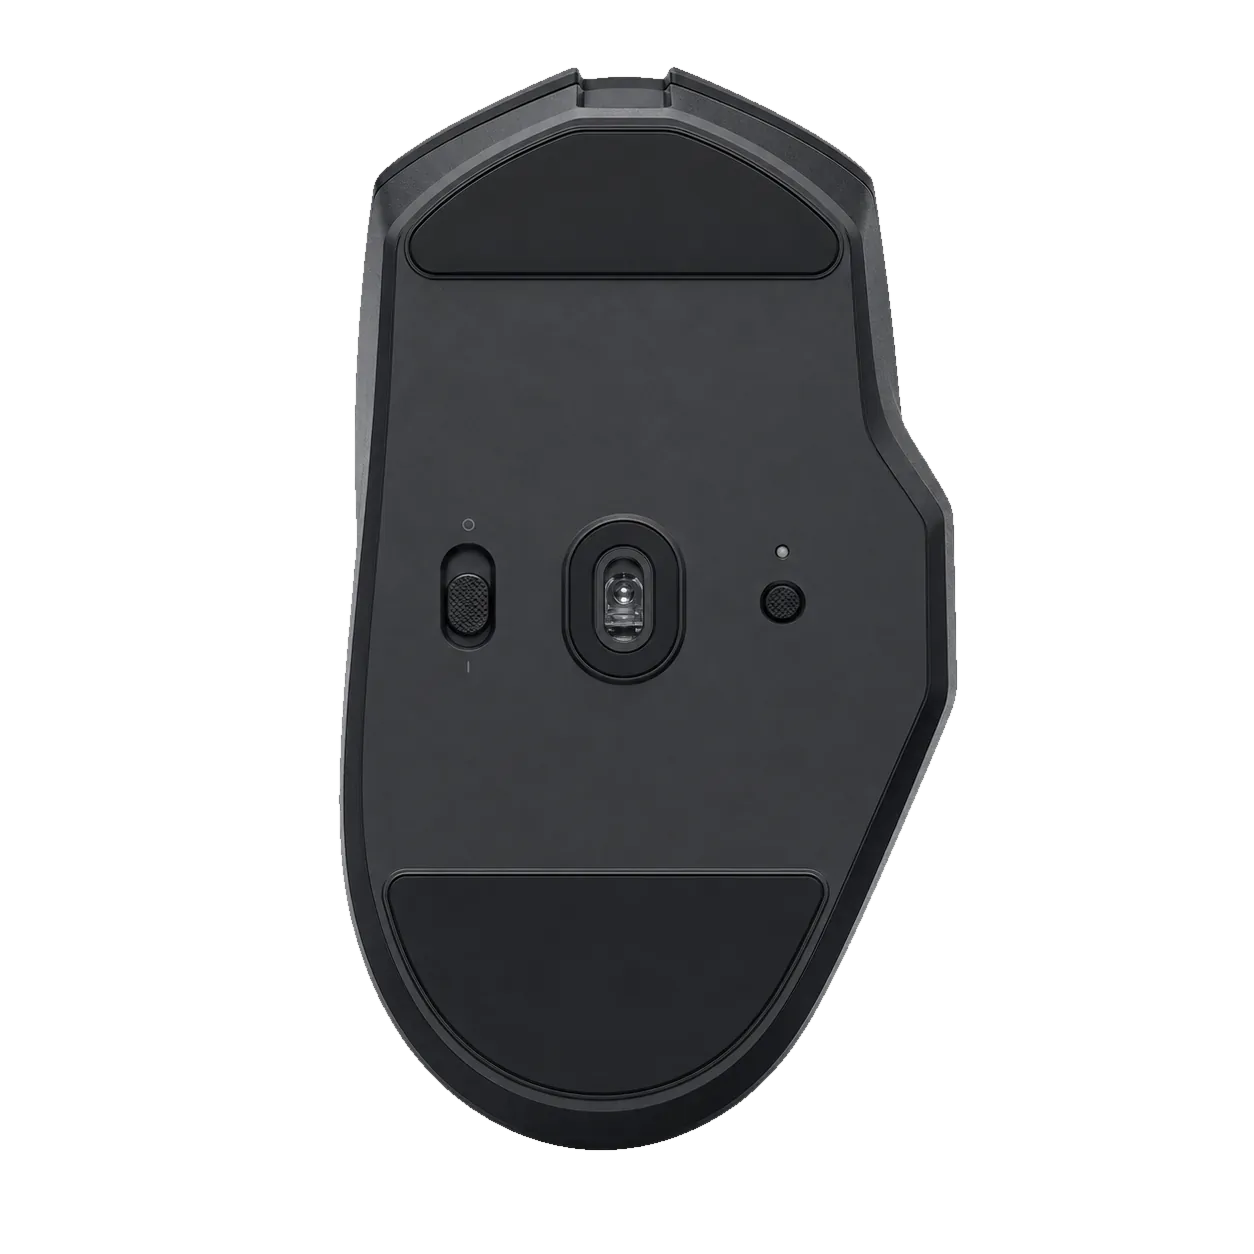
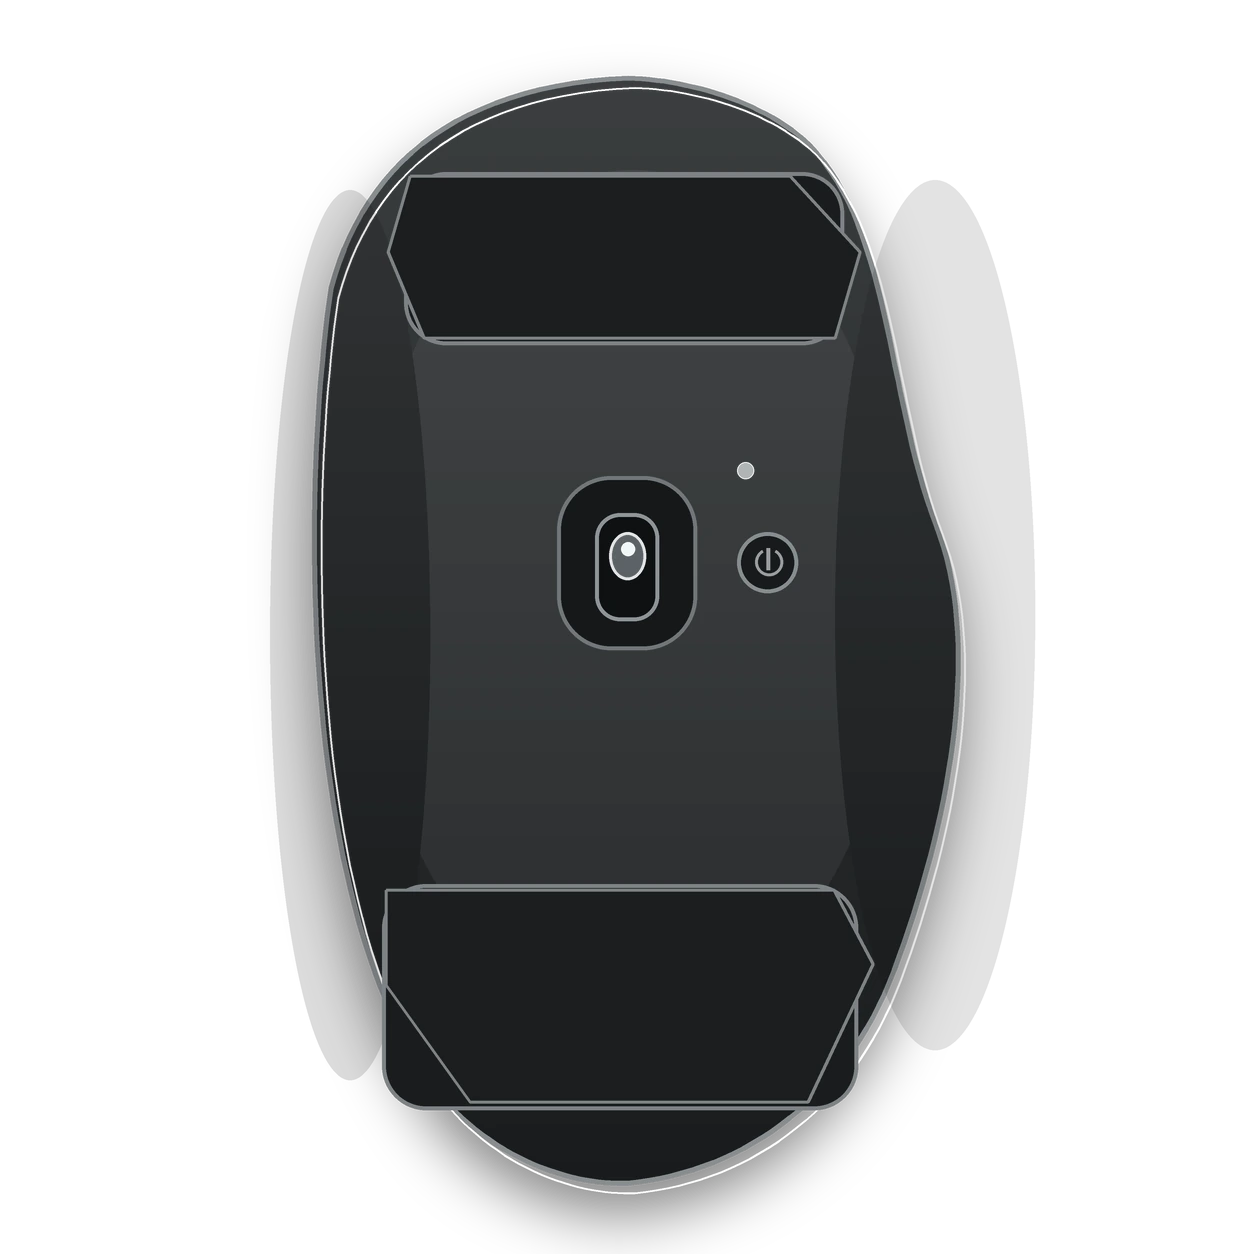
Remodel AW620M and AW720M bottom views

Changed region(s): [[0.2177, 0.0311, 0.8397, 0.9952], [0.4354, 0.3732, 0.5598, 0.5598], [0.5909, 0.4043, 0.6531, 0.4976]]

diff --git a/js/product-center.js b/js/product-center.js
@@ -63,7 +63,7 @@ const products = {
     viewScales: [0.88, 1.08, 0.9, 0.86, 0.9],
     viewFeatures: {
       0: [[0, 39, 32, 8, 25], [1, 50, 27, 40, 10], [2, 61, 32, 76, 25]],
-      1: [[3, 39, 50, 16, 49], [4, 50, 62, 28, 77], [5, 67, 47, 76, 43], [6, 62, 47, 74, 55]],
+      1: [[3, 39.5, 41, 15, 48], [4, 50, 54, 28, 66], [5, 58.3, 40.6, 73, 41], [6, 58.2, 46.5, 73, 54]],
       2: [[8, 49, 43, 68, 32], [9, 55, 50, 73, 49]],
       3: [[7, 50, 64, 64, 78]],
       4: []
@@ -74,10 +74,10 @@ const products = {
       ["左键", "标准主按键。", 38, 30, 10, 26],
       ["滚轮", "滚动与中键操作。", 50, 27, 38, 10],
       ["右键", "标准副按键。", 62, 30, 73, 26],
-      ["三模选择开关", "底部切换 2.4GHz、蓝牙或有线模式。", 37, 70, 7, 68],
-      ["DPI 调整按钮", "底部切换五档 DPI。", 47, 73, 25, 84],
-      ["DPI 指示器", "底部指示当前 DPI 档位。", 67, 47, 76, 43],
-      ["电源按钮", "底部电源开关。", 62, 47, 74, 55],
+      ["三模选择开关", "底部切换 2.4GHz、蓝牙或有线模式。", 39.5, 41, 15, 48],
+      ["DPI 调整按钮", "底部切换五档 DPI。", 50, 54, 28, 66],
+      ["DPI 指示器", "底部指示当前 DPI 档位。", 58.3, 40.6, 73, 41],
+      ["电源按钮", "底部电源开关。", 58.2, 46.5, 73, 54],
       ["USB-C 端口", "有线连接与充电。", 50, 12, 42, 3],
       ["前进键", "侧面浏览前进按键。", 30, 53, 5, 50],
       ["后退键", "侧面浏览后退按键。", 31, 61, 6, 61]